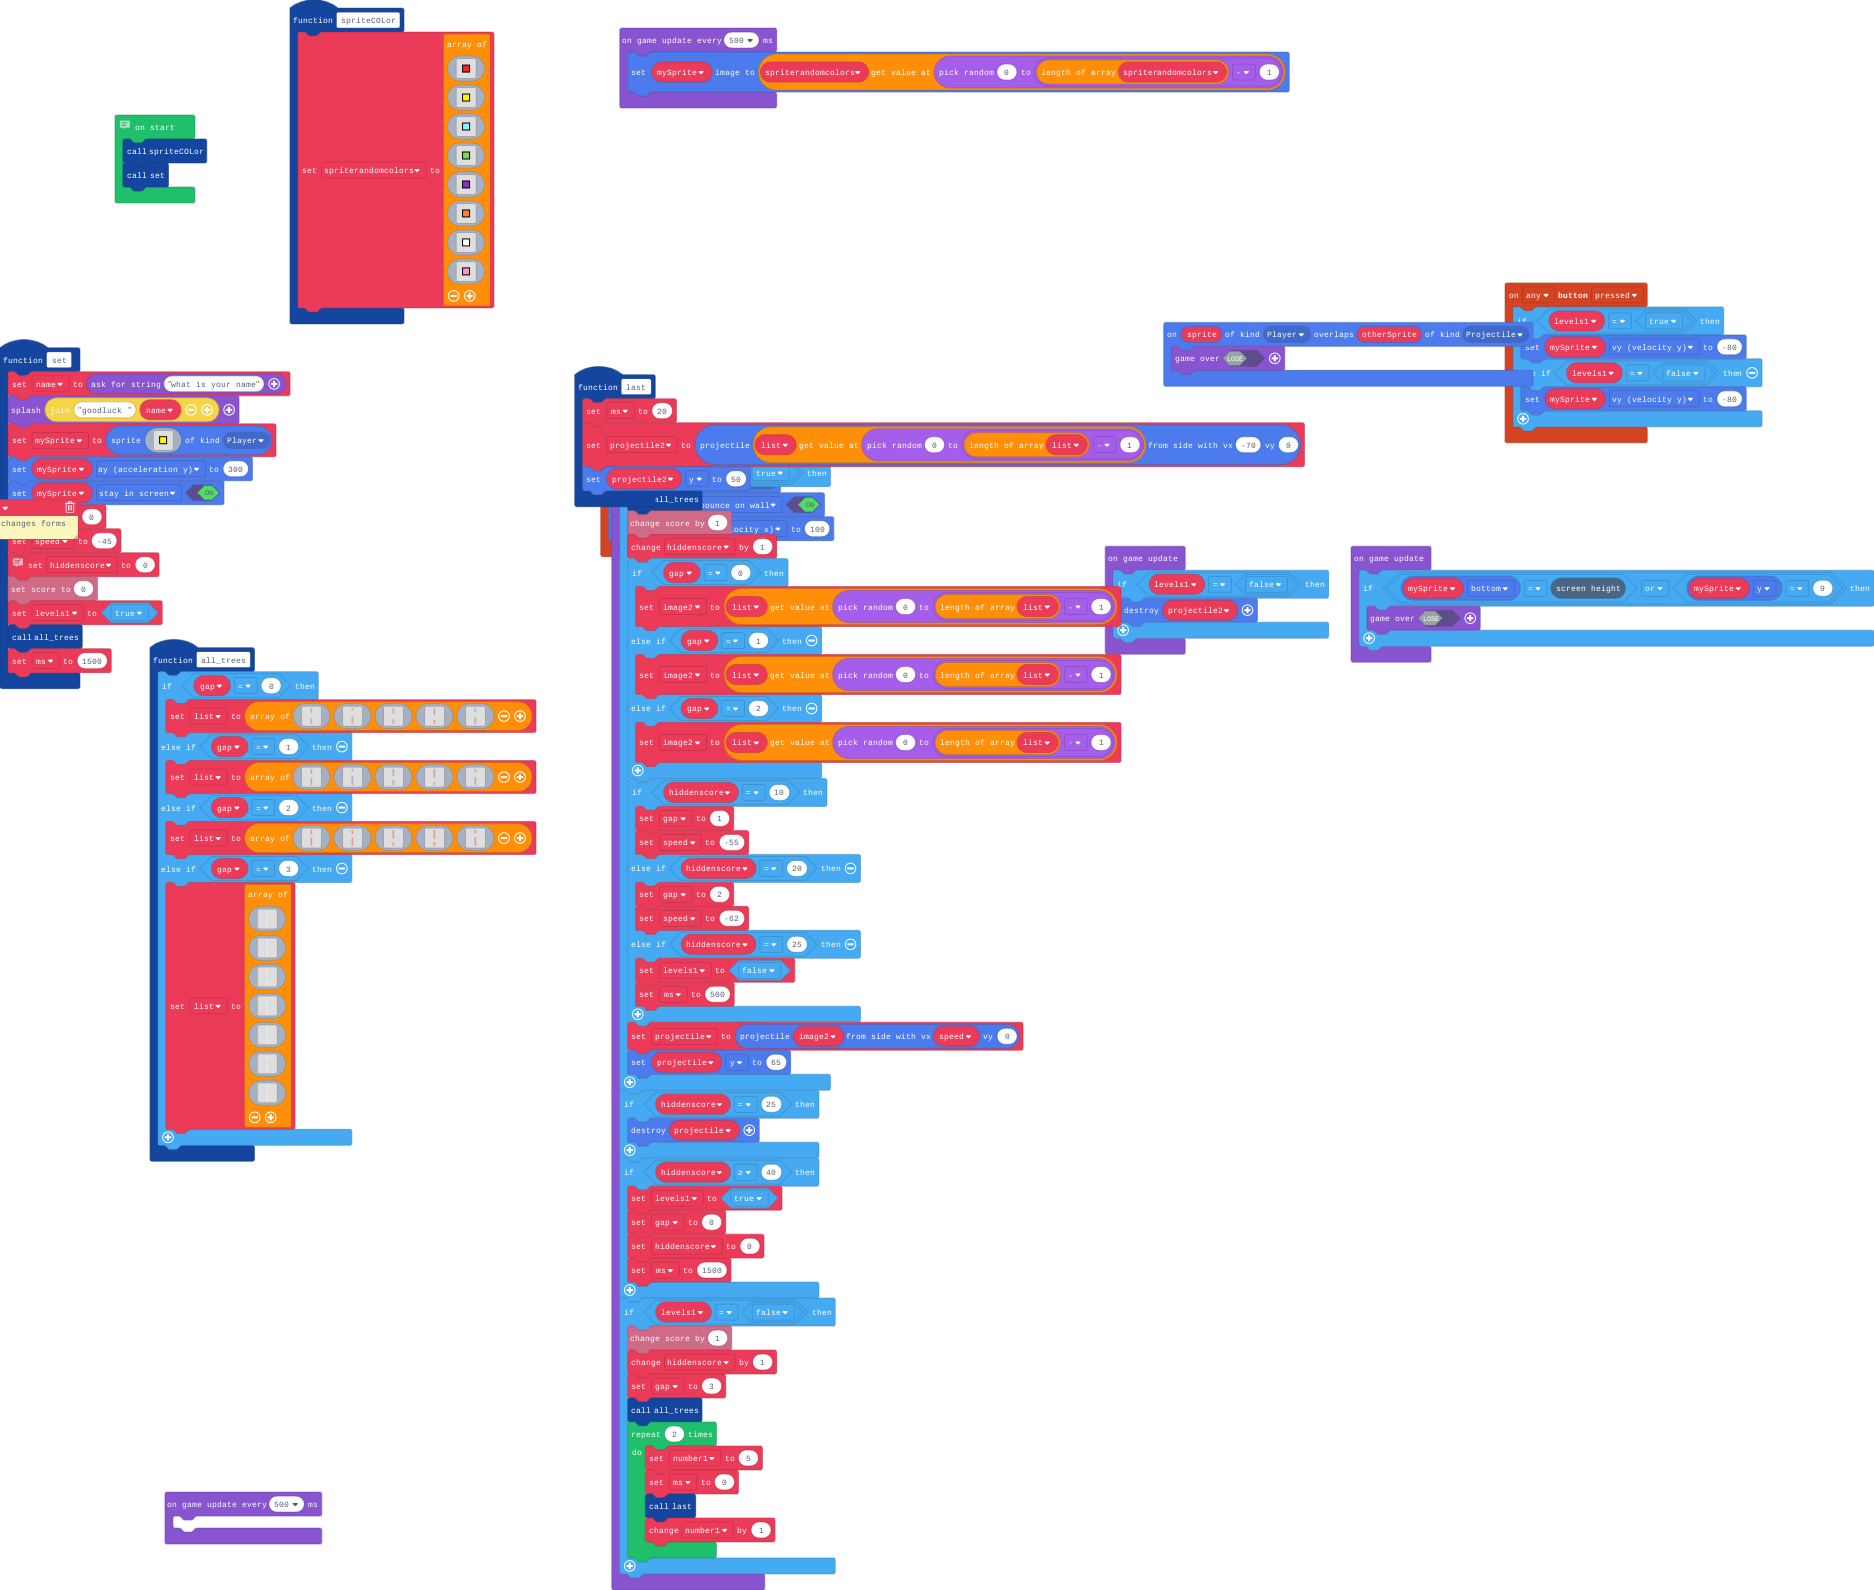
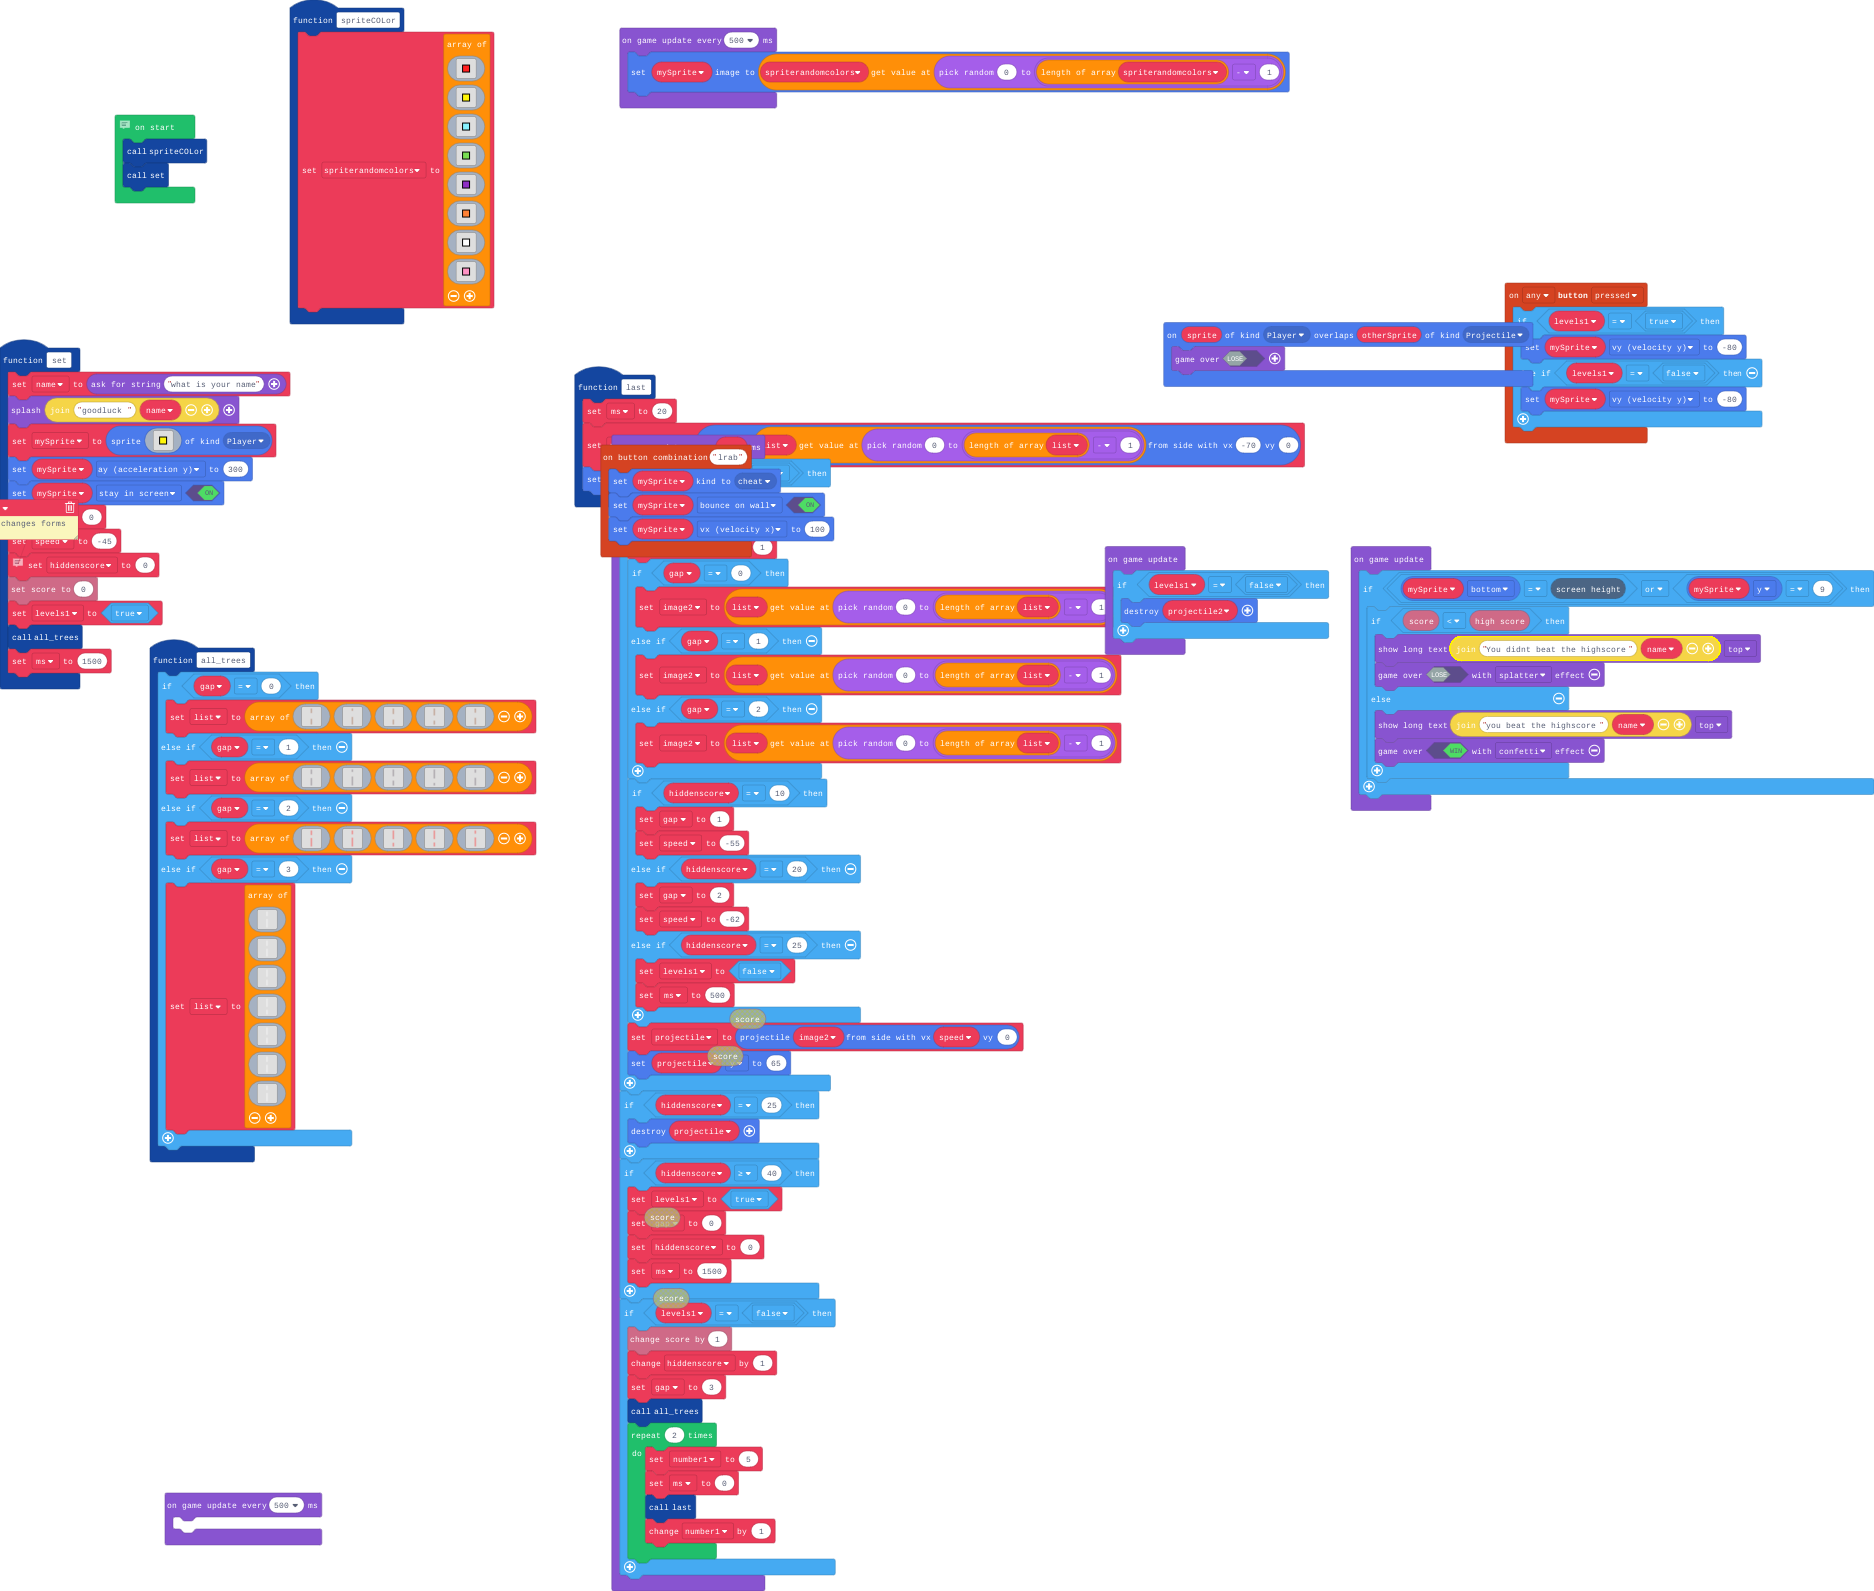
Aaaaaa

diff --git a/main.ts b/main.ts
@@ -3767,7 +3767,13 @@ game.onUpdate(function () {
 })
 game.onUpdate(function () {
     if (mySprite.bottom == scene.screenHeight() || mySprite.y == 9) {
-        game.over(false)
+        if (info.score() < info.highScore()) {
+            game.showLongText("You didnt beat the highscore " + name, DialogLayout.Top)
+            game.over(false, effects.splatter)
+        } else {
+            game.showLongText("you beat the highscore " + name, DialogLayout.Top)
+            game.over(true, effects.confetti)
+        }
     }
 })
 game.onUpdateInterval(500, function () {
